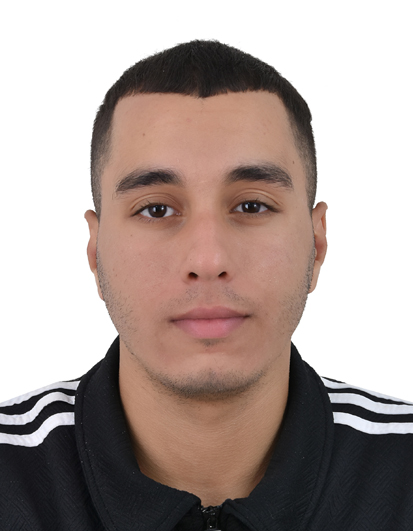
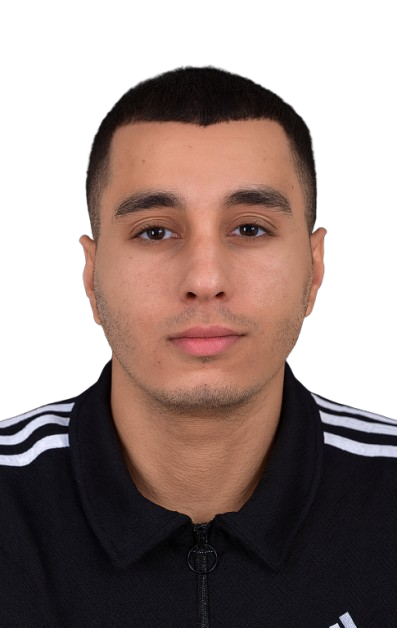
feat: refresh hero photo and layout

diff --git a/index.html b/index.html
@@ -41,7 +41,7 @@
         <div class="container">
             <div class="hero-content">
                 <h1 class="hero-title">
-                    Bonjour, je suis <span class="highlight">EL KHAOUDI Omar</span>
+                    <span class="highlight">EL KHAOUDI Omar</span>
                 </h1>
                 <p class="hero-subtitle">Développeur passionné par la création de solutions innovantes</p>
                 <div class="hero-buttons">
@@ -114,6 +114,73 @@
                             <span class="tag">Supabase</span>
                             <span class="tag">Express</span>
                             <span class="tag">React</span>
+                        </div>
+                    </div>
+                </div>
+                <div class="project-card">
+                    <div class="project-image">
+                        <div class="project-overlay">
+                            <a href="https://github.com/omarelkhaoudi/smartpay-saas" class="project-link" target="_blank" rel="noopener noreferrer">
+                                <span>Voir le projet</span>
+                                <svg width="20" height="20" viewBox="0 0 20 20" fill="none">
+                                    <path d="M11 3L17 9M17 9H11M17 9V3" stroke="currentColor" stroke-width="2" stroke-linecap="round"/>
+                                    <path d="M15 11V15C15 16.1046 14.1046 17 13 17H5C3.89543 17 3 16.1046 3 15V7C3 5.89543 3.89543 5 5 5H9" stroke="currentColor" stroke-width="2" stroke-linecap="round"/>
+                                </svg>
+                            </a>
+                            <a href="https://github.com/omarelkhaoudi/smartpay-saas" class="project-link" target="_blank" rel="noopener noreferrer">
+                                <span>Code source</span>
+                                <svg width="20" height="20" viewBox="0 0 20 20" fill="none">
+                                    <path d="M7.5 7.5L2.5 10L7.5 12.5M12.5 7.5L17.5 10L12.5 12.5M2.5 15L17.5 15" stroke="currentColor" stroke-width="2" stroke-linecap="round" stroke-linejoin="round"/>
+                                </svg>
+                            </a>
+                        </div>
+                    </div>
+                    <div class="project-info">
+                        <h3 class="project-title">SmartPay SaaS</h3>
+                        <p class="project-description">
+                            Plateforme SaaS moderne de gestion de paie pour les PME marocaines. Calculs automatisés de salaires, taxes et cotisations conformes à la législation marocaine (CNSS, AMO, IR). Gestion des employés, rapports détaillés, authentification sécurisée et support multi-entreprises. Intégration d'un agent IA pour l'assistance.
+                        </p>
+                        <div class="project-tags">
+                            <span class="tag">Next.js</span>
+                            <span class="tag">TypeScript</span>
+                            <span class="tag">React</span>
+                            <span class="tag">Supabase</span>
+                            <span class="tag">Tailwind CSS</span>
+                            <span class="tag">shadcn-ui</span>
+                            <span class="tag">OpenAI</span>
+                        </div>
+                    </div>
+                </div>
+                <div class="project-card">
+                    <div class="project-image">
+                        <div class="project-overlay">
+                            <a href="https://waf-r-management-console.vercel.app/" class="project-link" target="_blank" rel="noopener noreferrer">
+                                <span>Voir le projet</span>
+                                <svg width="20" height="20" viewBox="0 0 20 20" fill="none">
+                                    <path d="M11 3L17 9M17 9H11M17 9V3" stroke="currentColor" stroke-width="2" stroke-linecap="round"/>
+                                    <path d="M15 11V15C15 16.1046 14.1046 17 13 17H5C3.89543 17 3 16.1046 3 15V7C3 5.89543 3.89543 5 5 5H9" stroke="currentColor" stroke-width="2" stroke-linecap="round"/>
+                                </svg>
+                            </a>
+                            <a href="https://github.com/omarelkhaoudi/WafR-Management-Console" class="project-link" target="_blank" rel="noopener noreferrer">
+                                <span>Code source</span>
+                                <svg width="20" height="20" viewBox="0 0 20 20" fill="none">
+                                    <path d="M7.5 7.5L2.5 10L7.5 12.5M12.5 7.5L17.5 10L12.5 12.5M2.5 15L17.5 15" stroke="currentColor" stroke-width="2" stroke-linecap="round" stroke-linejoin="round"/>
+                                </svg>
+                            </a>
+                        </div>
+                    </div>
+                    <div class="project-info">
+                        <h3 class="project-title">WafR Management Console</h3>
+                        <p class="project-description">
+                            Console full-stack qui centralise la gestion des opérations WafR : supervision des magasins, orchestration des campagnes, automatisation des workflows back-office et visualisation temps réel des indicateurs business via un dashboard moderne et sécurisé.
+                        </p>
+                        <div class="project-tags">
+                            <span class="tag">Next.js</span>
+                            <span class="tag">TypeScript</span>
+                            <span class="tag">Node.js</span>
+                            <span class="tag">Express</span>
+                            <span class="tag">MongoDB</span>
+                            <span class="tag">Tailwind CSS</span>
                         </div>
                     </div>
                 </div>

diff --git a/css/styles.css b/css/styles.css
@@ -236,6 +236,7 @@ body {
 
 .hero-content {
     animation: fadeInUp 0.8s ease;
+    text-align: center;
 }
 
 .hero-title {
@@ -278,6 +279,7 @@ body {
     display: flex;
     gap: var(--space-md);
     flex-wrap: wrap;
+    justify-content: center;
 }
 
 .btn {
@@ -333,6 +335,13 @@ body {
     width: 100%;
     max-width: 420px;
     aspect-ratio: 1;
+    display: flex;
+    align-items: center;
+    justify-content: center;
+    border-radius: 50%;
+    background: var(--secondary);
+    border: 14px solid var(--secondary);
+    box-shadow: 0 18px 45px rgba(0, 0, 0, 0.2);
 }
 
 .profile-image {
@@ -341,11 +350,11 @@ body {
     object-fit: cover;
     border-radius: 50%;
     border: 3px solid var(--text-white);
-    box-shadow: 0 25px 50px rgba(0, 0, 0, 0.5);
+    box-shadow: 0 18px 35px rgba(0, 0, 0, 0.3);
     transition: transform var(--transition-base);
     position: relative;
     z-index: 2;
-    background: var(--bg-dark);
+    background: var(--bg-primary);
     display: block;
 }
 
